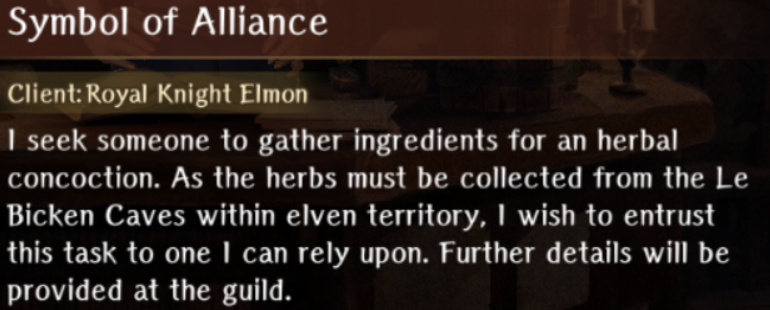
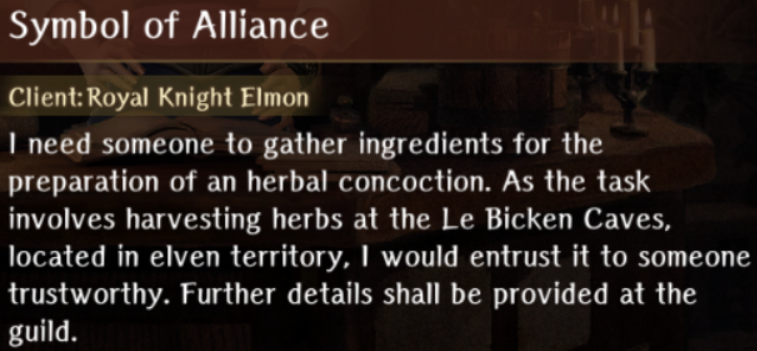
155

diff --git a/src/script.py b/src/script.py
@@ -259,12 +259,12 @@ def Factory():
     def DeviceShell(cmdStr):
         while True:
             try:
-                return setting._ADBDEVICE.shell(cmdStr)
+                return setting._ADBDEVICE.shell(cmdStr, timeout = 5)
             except Exception as e:
                 logger.debug(f"{e}")
-                if isinstance(e, (RuntimeError, ConnectionResetError, cv2.error)):
-                    logger.debug(f"ADB操作失败.")
-                    logger.info("ADB连接异常，尝试重启服务...")
+                if isinstance(e, (RuntimeError, ConnectionResetError,TimeoutError, cv2.error)):
+                    logger.debug(f"ADB操作失败. {e}")
+                    logger.info(f"ADB异常({type(e).__name__})，尝试重启服务...")
 
                     while True:
                         if StartAdbServer(setting):
@@ -1333,10 +1333,10 @@ def Factory():
         pos = FindCoordsOrElseExecuteFallbackAndWait(request,['input swipe 150 200 150 250',[1,1]],1)
         if not CheckIf(ScreenShot(),'request_accepted',[[0,pos[1]-200,900,pos[1]+200]]):
             FindCoordsOrElseExecuteFallbackAndWait(['Inn','guildRequest'],[[pos[0]+pressbias[0],pos[1]+pressbias[1]],[1,1],'return'],1)
-            FindCoordsOrElseExecuteFallbackAndWait('Inn','return',1)
+            FindCoordsOrElseExecuteFallbackAndWait('Inn',['return',[1,1]],1)
         else:
             logger.info("奇怪, 任务怎么已经接了.")
-            FindCoordsOrElseExecuteFallbackAndWait('Inn','return',1)
+            FindCoordsOrElseExecuteFallbackAndWait('Inn',['return',[1,1]],1)
 
     def DungeonFarm():
         nonlocal setting
@@ -1665,12 +1665,7 @@ def Factory():
                         lambda: Press(FindCoordsOrElseExecuteFallbackAndWait('RoyalCityLuknalia','input swipe 450 150 500 150',1)),
                         lambda: FindCoordsOrElseExecuteFallbackAndWait('guild',['RoyalCityLuknalia',[1,1]],1),
                         )
-                                           
-                    RestartableSequenceExecution(
-                        lambda: logger.info('第四步: 领取任务'),
-                        lambda: StateAcceptRequest('LBC/Request',[266,237])
-                        )
-
+                    
                     def stepFive():
                         scn = ScreenShot()
                         if Press(CheckIf(scn,'LBC/LBC')) or CheckIf(scn,"dungFlag"):
@@ -1678,10 +1673,14 @@ def Factory():
                         else:
                             Press(FindCoordsOrElseExecuteFallbackAndWait('intoWorldMap',['closePartyInfo','closePartyInfo_fortress',[1,1]],1))
                             Press(FindCoordsOrElseExecuteFallbackAndWait('LBC/LBC','input swipe 100 100 700 1500',1))
+                                           
                     RestartableSequenceExecution(
+                        lambda: logger.info('第四步: 领取任务'),
+                        lambda: StateAcceptRequest('LBC/Request',[266,257]),
                         lambda: logger.info('第五步: 进入牛洞'),
                         lambda: stepFive()
                         )
+
                     Gorgon1 = TargetInfo('position','左上',[134,342])
                     Gorgon2 = TargetInfo('position','右上',[500,395])
                     Gorgon3 = TargetInfo('position','右下',[340,1027])

diff --git a/CHANGES_LOG.md b/CHANGES_LOG.md
@@ -1,6 +1,8 @@
 **新版本!**
 ==v1.5.5==
-现在会尝试启动/重启模拟器.
+新增尝试启动/重启模拟器. 注意，默认adb和模拟器位于同一个文件夹。之后会把文本“adb路径”修改为模拟器路径。
+增加adb指令的超时检查，以避免偶发的无限挂起。
+修改了牛洞的任务文本图片，一个没人看的任务改了两次，真是闲的。
 
 **已知问题**
 地图滑动有时失效.
